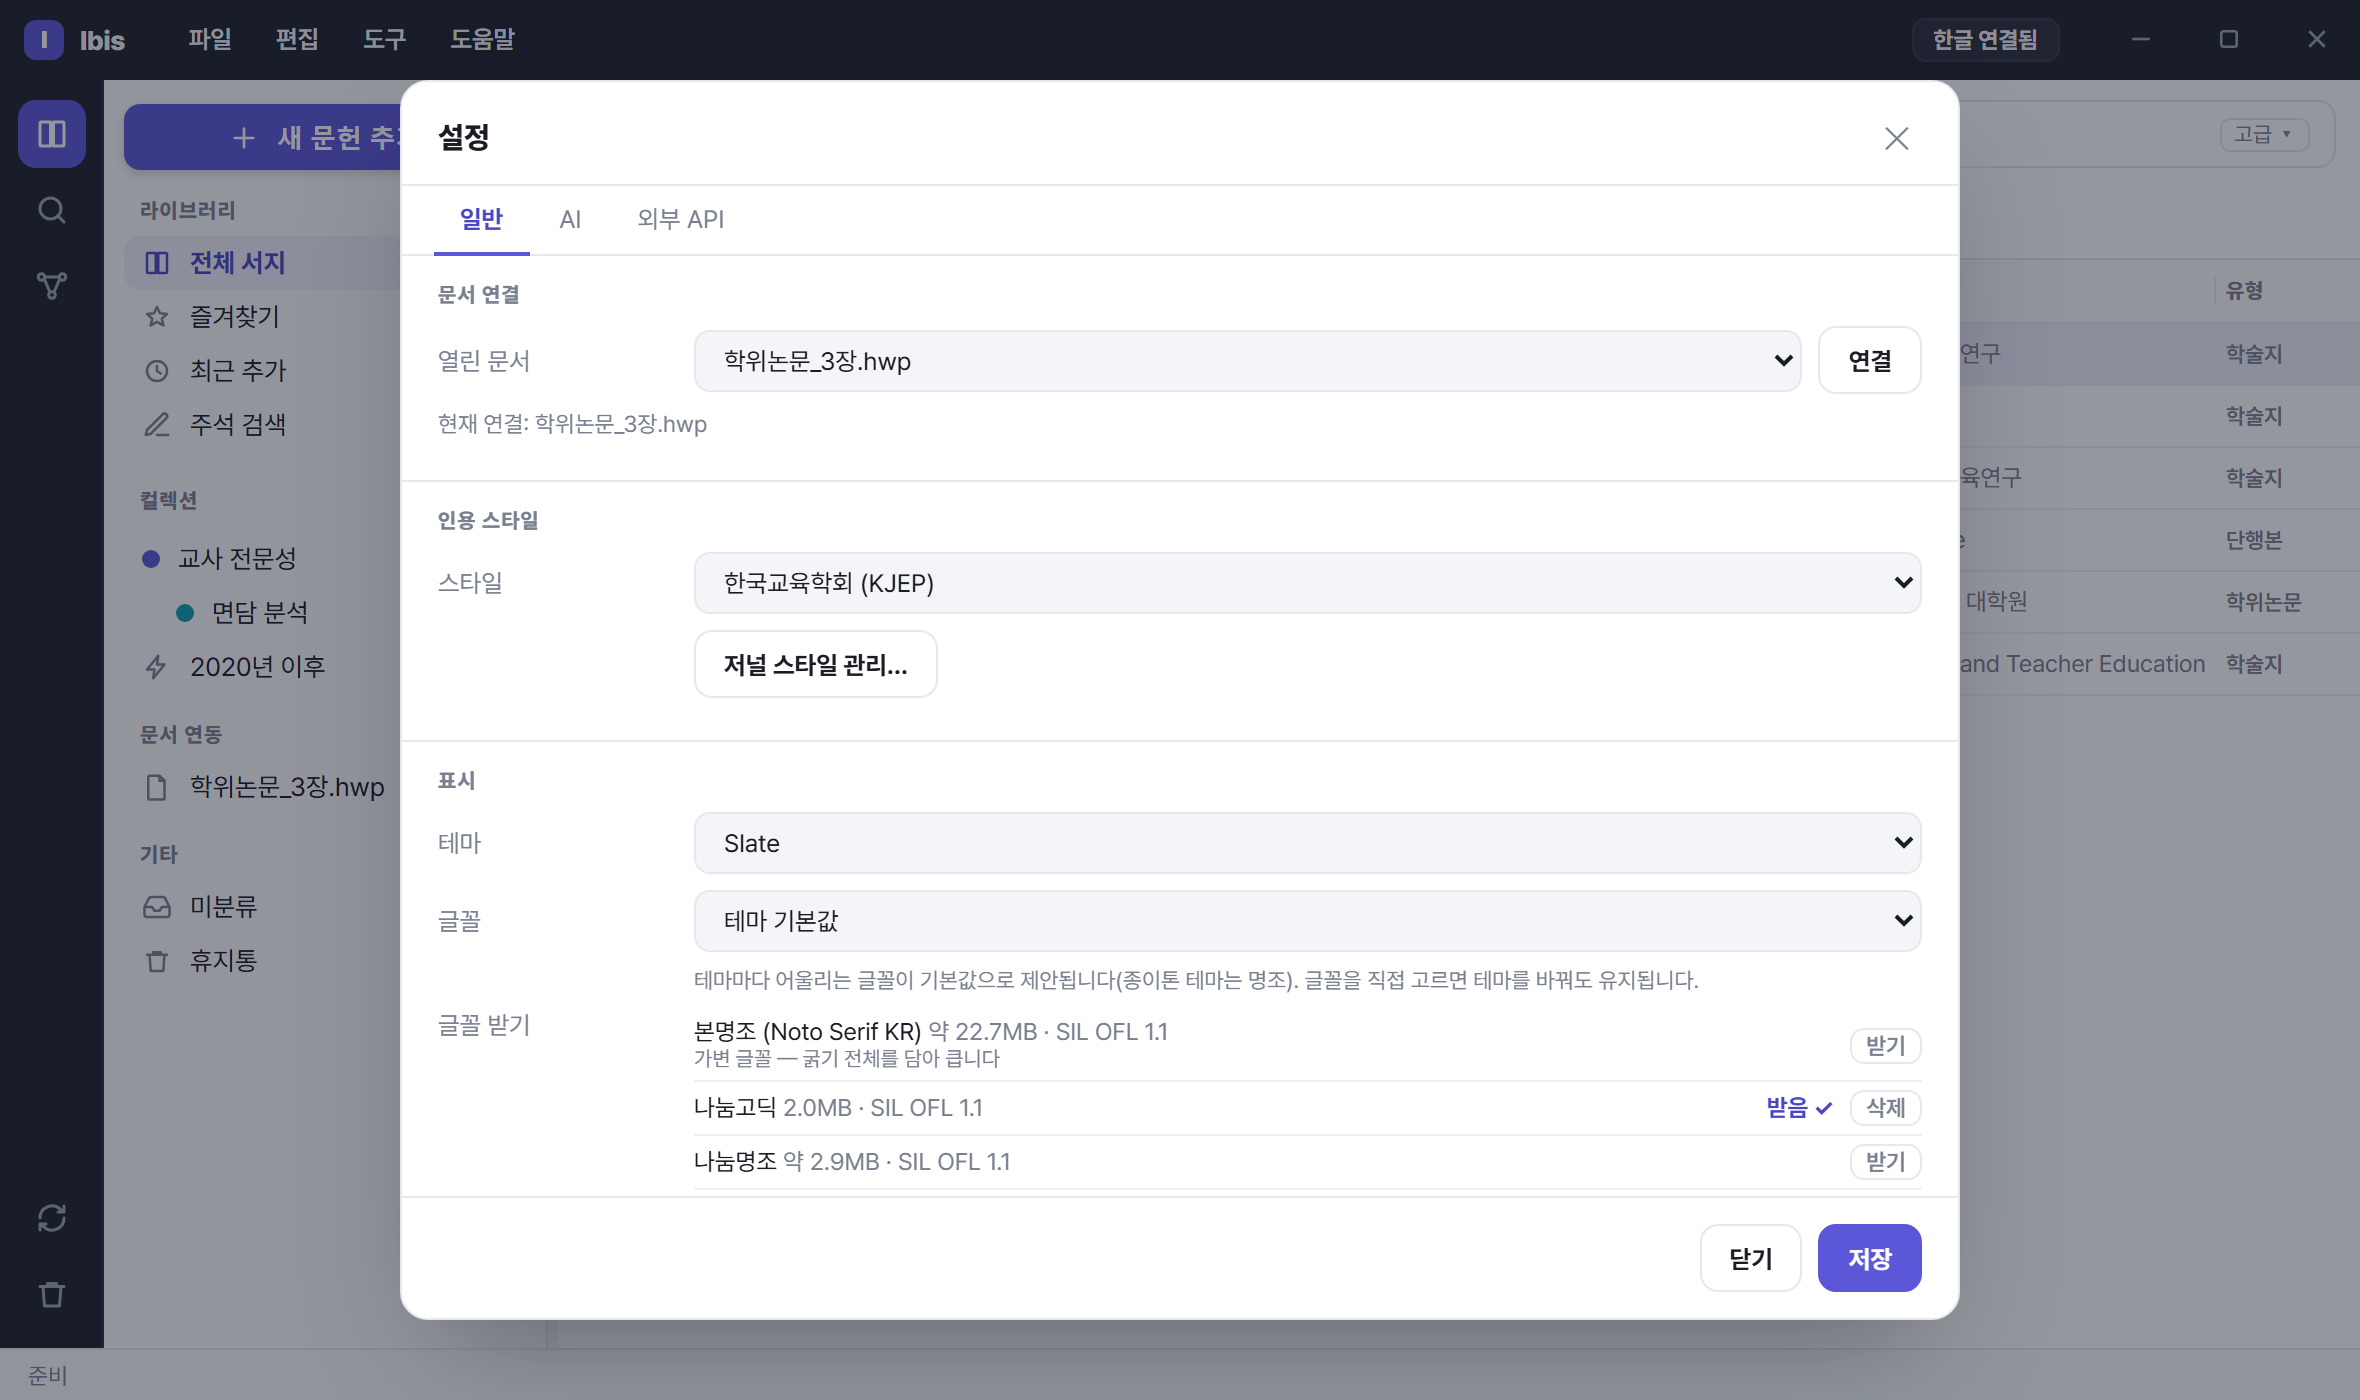
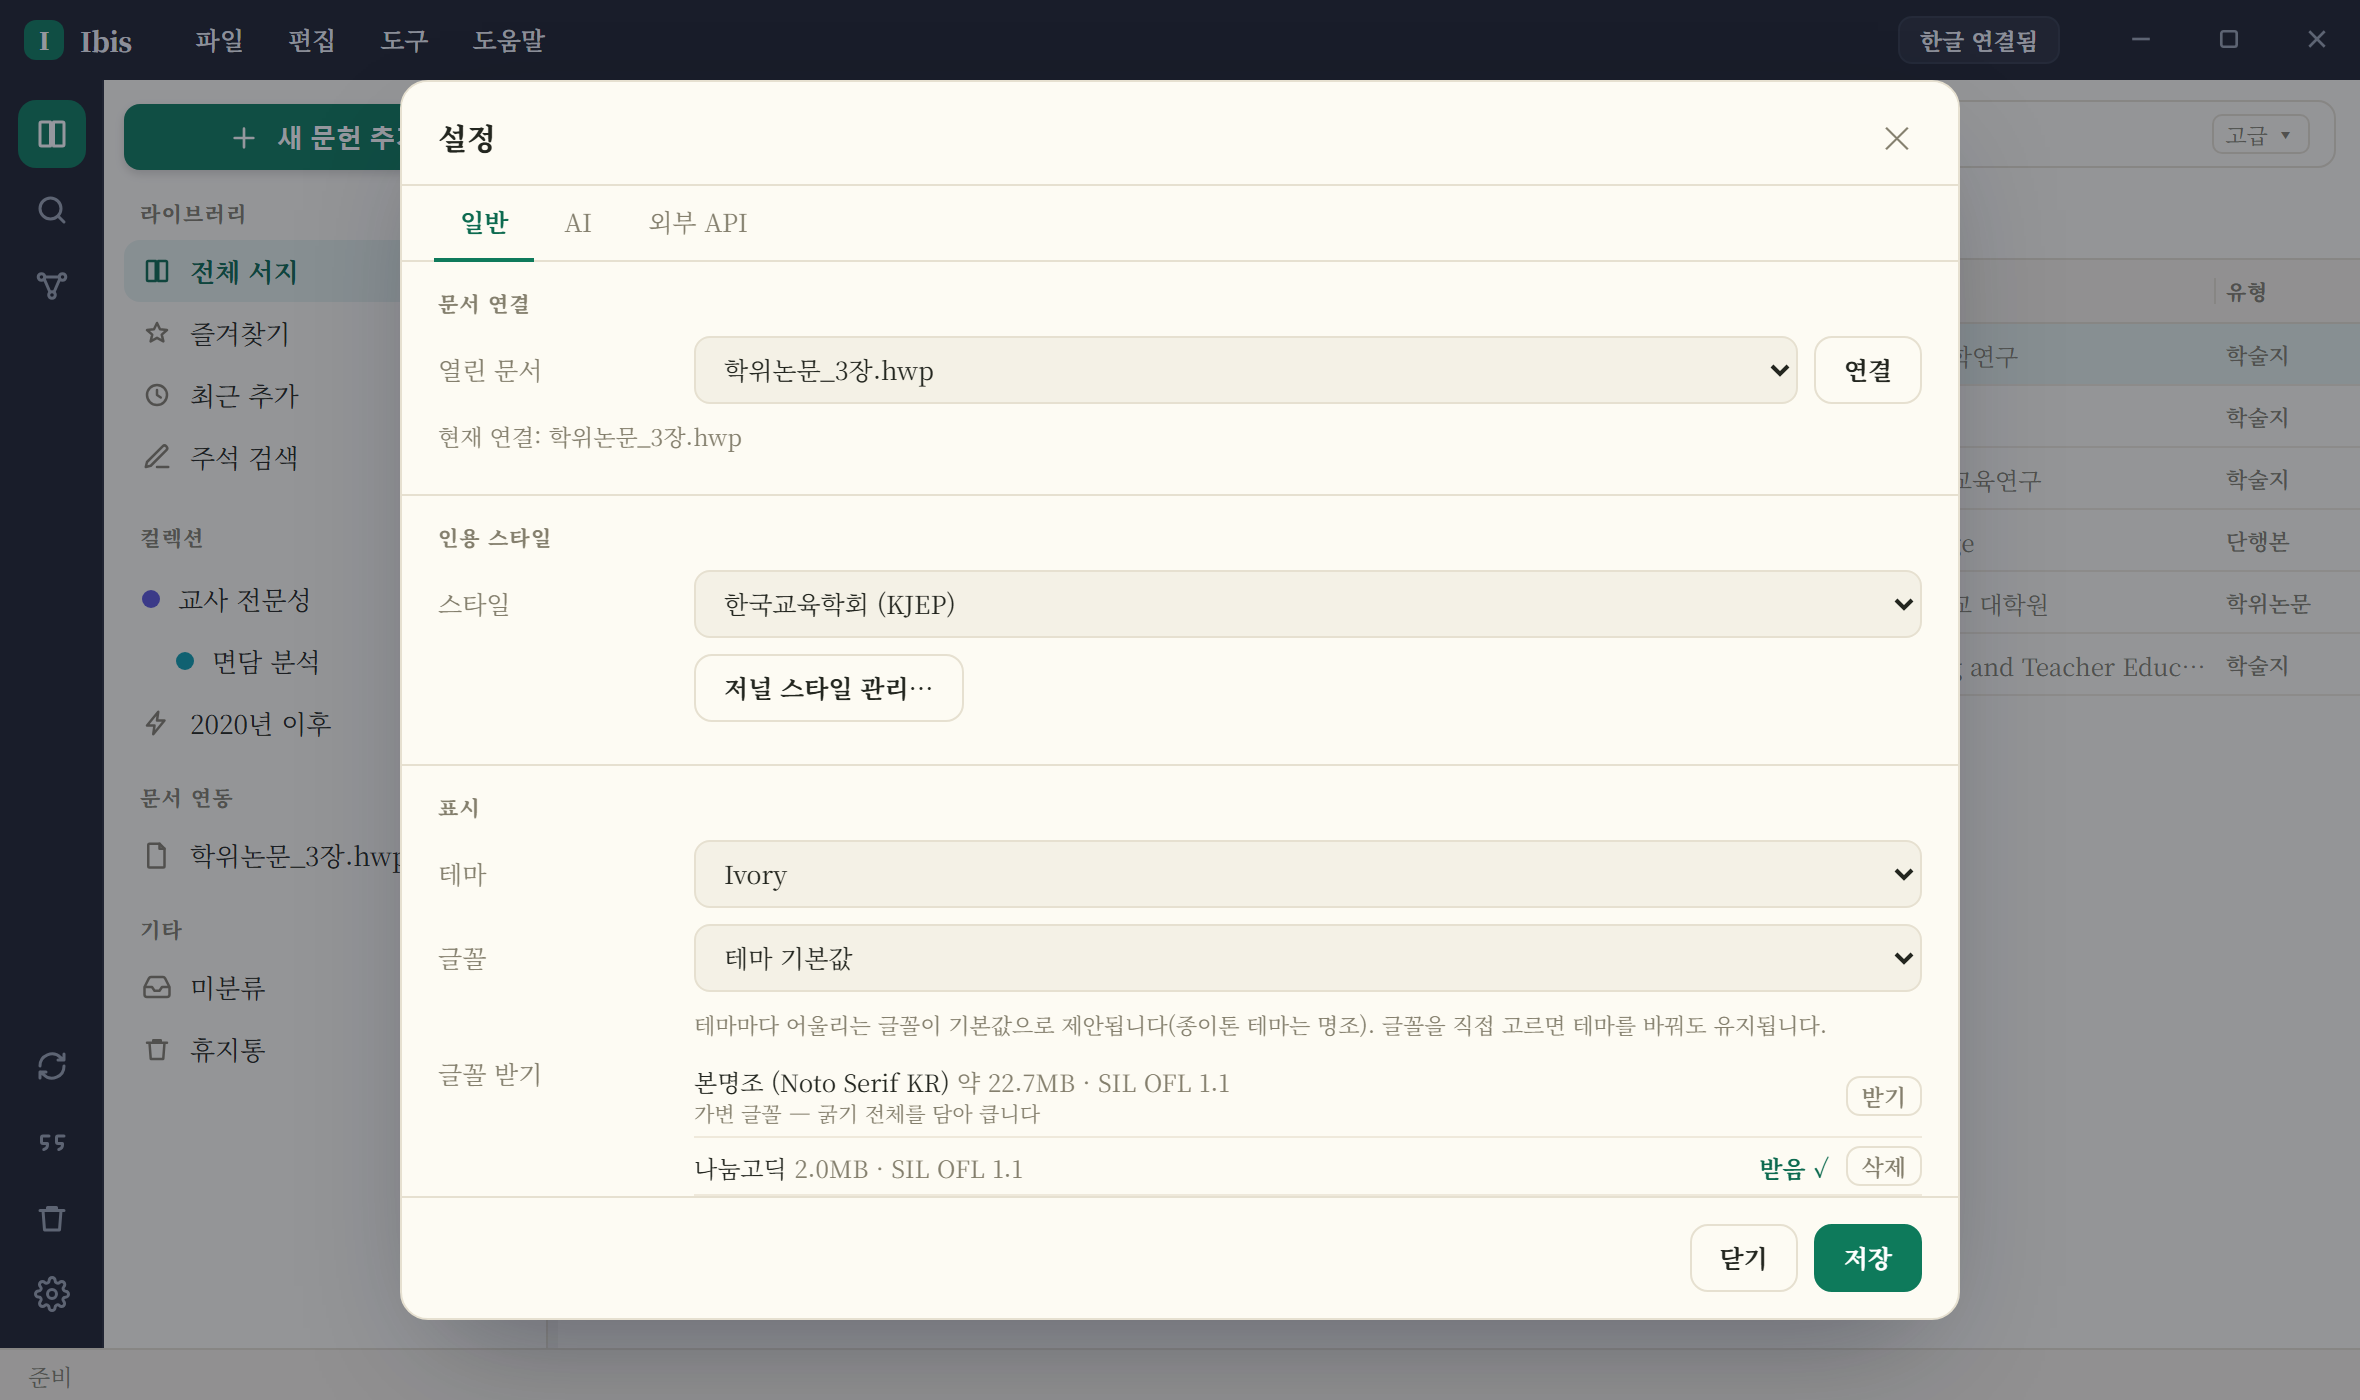
docs: 2026.8.2 반영 — 참고문헌 컨테이너 이행·인용 편집 창·인용 형태 5종
릴리스에 나간 기능이 공개 문서에 하나도 없었다. 특히 참고문헌 재설계는 기존
문서가 한 번 이행되는 변경이라 사용자가 안내를 만나기 전에 문서에 설명이 있어야
한다 — 이행 안내가 떴을 때·이행이 거부됐을 때 무엇을 하면 되는지를 FAQ 에 넣었다.

- USAGE: 4.2 인용 편집 창 · 4.6 직접 고친 인용 보호 · 5.3 참고문헌 컨테이너 신설,
  인용 형태를 5종 표로, 소절 번호 재정렬, 기준 버전 2026.8.2
- FAQ: 이행 안내/거부·손으로 고친 인용·인용 편집 창·서지에만 표시 5문항 추가.
  옛 답변(형태 3종·서술형은 단일 문헌만)을 현행으로 수정
- README: 인용 기능 갱신, 베타 안내에 이행 고지
- 캡처 13종을 기본 테마 Ivory 로 재생성(문서와 새 설치 화면이 어긋나지 않게)
- 테마 기본값이 Ivory 임을 USAGE·FAQ 양쪽에 명시(기존 사용자는 유지)

diff --git a/docs/FAQ.md b/docs/FAQ.md
@@ -1,6 +1,6 @@
 # Ibis FAQ
 
-한국 연구자를 위한 서지·인용 관리 앱 **Ibis** 자주 묻는 질문. 기준 버전 **2026.8.1**.
+한국 연구자를 위한 서지·인용 관리 앱 **Ibis** 자주 묻는 질문. 기준 버전 **2026.8.2**.
 
 - **국내 학술 검색 → 원문 확보 → AI 분석 → 태그 그래프**까지 한 프로그램에서 끝냅니다.
 - 한글(HWP)·Word 본문 인용 삽입(CWYW)도 그중 한 기능입니다.
@@ -120,8 +120,10 @@
 
 **Q. 인용 형태와 쪽수는 어디서?**
 
-- 문헌 선택 → 우측 상세 패널의 형태 드롭다운(괄호형 / 서술형 / 연도만) + '쪽' 칸 → [인용 삽입].
-- 서술형은 **단일 문헌일 때만** 적용(여러 건이면 괄호형으로 표시).
+- 문헌 선택 → 우측 상세 패널의 형태 드롭다운 + '쪽' 칸 → [인용 삽입].
+- **형태 5종**: 괄호형 `(홍길동, 2024)` · 서술형 `홍길동(2024)` · 연도만 `(2024)` · **서지에만 표시**(본문에 안 보이고 참고문헌에만) · **표기 생략 — 쪽만** `(23)`.
+- **서술형은 복수 문헌도 됩니다** — `Apple (2013), Aranda (2021)`. 다만 **'연도만' 은 복수 문헌에 쓸 수 없습니다**(어느 문헌의 연도인지 알 수 없어 차단됩니다).
+- 삽입한 뒤에도 **인용 편집 창**에서 형태·쪽을 바꿀 수 있습니다.
 
 **Q. 인용 여러 개를 한 괄호로 묶으려면?**
 
@@ -158,6 +160,37 @@
 - 사이드바 '문서 연동' 의 문서 우클릭 › '인용 스타일' 에서 지정.
 - 미연결 상태에서 바꾸면 앱 전체 기본만 변경.
 
+**Q. 문서를 여니 '참고문헌을 새 방식으로 옮깁니다' 라는 안내가 떠요. (2026.8.2)**
+
+- 정상입니다. 참고문헌이 **테두리 없는 한 칸짜리 표** 안으로 들어가는 구조 변경이고, **문서마다 한 번만** 일어납니다.
+- 겉모양은 달라지지 않습니다 — 화면·인쇄 모두 예전과 같은 문단으로 보이고 여러 쪽에 걸쳐 이어집니다.
+- **옮기기 전에 `.hwp` 파일 백업을 만듭니다.** 그래서 문서가 **저장돼 있어야** 이행됩니다 — 안내가 뜨면 먼저 저장하세요.
+- 왜 바꿨나: 종전 방식(표시로 구간을 잡아 지우고 다시 쓰기)은 **원고 본문까지 지울 수 있는 경로**가 있었고 실제로 사고가 났습니다. 이제 경계를 한글이 지키므로 그 경로 자체가 없습니다.
+
+**Q. '참고문헌 구간을 확인할 수 없습니다' 라며 이행하지 않아요.**
+
+- 그 구간이 앱이 쓴 그대로가 아니라는 뜻입니다(손으로 고쳤거나 다른 편집이 섞인 경우).
+- **아무것도 지우지 않습니다.** 안내에 나온 대로 참고문헌 **글자만** 지우고 갱신하시면, 남은 표시는 앱이 정리하고 새 방식으로 다시 만듭니다.
+- 지우기 전에 문서 사본을 하나 두시면 마음이 편합니다.
+
+**Q. 인용을 손으로 고쳤는데 갱신하면 날아가나요? (2026.8.2)**
+
+- 아닙니다 — 갱신 전에 **묻습니다**. '유지'(손으로 쓴 표기를 지키고 이후 갱신에서 제외) 또는 '정식 표기로 되돌리기' 중에 고릅니다.
+- 제외해 둔 인용은 **인용 편집 창의 [적용]** 으로 언제든 다시 갱신 대상으로 되돌립니다.
+- 종전에는 경고 없이 덮어써졌습니다.
+
+**Q. 인용이 문서 어디에 있는지 찾기 어려워요. (2026.8.2)**
+
+- 레일의 **인용 아이콘(❝)** 으로 **인용 편집 창**을 엽니다 — 문서의 인용이 **나오는 순서대로** 전부 보입니다.
+- **행을 클릭하면 한글이 그 자리로 이동**합니다. ✎(더블클릭·우클릭)로 표기 방식·쪽·병렬 구성 문헌을 그 자리에서 고칩니다.
+- '갱신하면 표기가 달라질 인용'에는 배지가 붙어, 무엇이 바뀔지 미리 보고 갱신할 수 있습니다.
+
+**Q. 본문에는 안 나오고 참고문헌에만 올리고 싶어요. (2026.8.2)**
+
+- 인용 형태에서 **'서지에만 표시'** 를 고릅니다.
+- 같은 문헌을 이어 인용하며 쪽만 바꿀 때는 **'표기 생략 — 쪽만'**(`(23)`)을 씁니다.
+- 이로써 괄호형·서술형·연도만과 함께 **형태 5종**이 됩니다.
+
 **Q. 문서에서 인용을 지웠는데 참고문헌에 남아요.**
 
 - 문서를 다시 연결하거나 `참고문헌 갱신` 실행 → 실제 문서 필드와 대조해 자동 정리.
@@ -166,6 +199,7 @@
 
 - 기본값이 **제목 없음**입니다.
 - 참고문헌은 항상 새 페이지에서 시작하며, 제목은 저널 스타일의 `bib_heading` 을 지정할 때만.
+- 목록은 테두리 없는 표 안에 들어가지만 겉모양은 일반 문단과 같습니다(위 이행 안내 참고).
 - 각 항목은 APA 0.5in 내어쓰기 + 스타일별 강조(이탤릭/볼드/밑줄).
 
 ---
@@ -548,6 +582,7 @@
 **Q. 테마는 몇 가지인가요?**
 
 - **16종** — 자체 제작 4종(Slate·Ivory·Bright·Graphite) + 다크 8종(Dark Modern·One Dark Pro·Dracula·Nord·Monokai·Tokyo Night·Solarized Dark·GitHub Dark) + 라이트 4종(Solarized Light·GitHub Light·Quiet Light·Ayu Light).
+- 기본값은 **Ivory**(종이톤·명조) 입니다 — 2026.8.2 부터. **그전부터 쓰시던 분의 테마는 그대로 유지**되고, 새로 설치했거나 테마를 한 번도 바꾸지 않은 경우에만 적용됩니다.
 - ⚙설정 › 일반 › 표시 › 테마에서 선택 — 즉시 적용, 저장되어 재시작 후에도 유지.
 - 자체 제작 4종은 타이틀바·레일이 다크 고정, 나머지는 **크롬까지 테마 색**을 따릅니다.
 

diff --git a/README.md b/README.md
@@ -64,8 +64,13 @@ KCI·국립중앙도서관 검색, 도서관 교외접속 경유 원문 확보, 
 
 **인용·참고문헌**
 - 한글 누름틀/Word 콘텐츠 컨트롤 기반 인용 — 문서를 다시 열어도, 파일명을 바꿔도, 다른 PC로 옮겨도 안전
-- 괄호형 `(저자, 연도)` · 서술형 `저자(연도)` · 연도만 · 쪽수 지정 · 병렬 인용(자동 병합)
-- 참고문헌 자동 생성: 새 페이지 분리, 내어쓰기, 국문·영문 혼합 정렬, 학회별 스타일
+- **인용 형태 5종** — 괄호형 `(저자, 연도)` · 서술형 `저자(연도)`(복수 문헌도 지원) · 연도만 · **서지에만 표시** · **표기 생략(쪽만)** + 쪽수 지정 · 병렬 인용(자동 병합)
+- **인용 편집 창** — 문서의 인용을 **나오는 순서대로** 모아 보고, **행을 클릭하면 한글이 그 자리로 이동**합니다.
+  표기 방식·쪽·병렬 구성 문헌을 그 자리에서 고치고, 갱신하면 표기가 달라질 인용에는 배지가 붙습니다
+- **직접 고친 인용은 덮어쓰기 전에 묻습니다** — '유지'(이후 갱신에서 제외) / '정식 표기로 되돌리기'
+- 참고문헌 자동 생성: 새 페이지 분리, 내어쓰기, 국문·영문 혼합 정렬, 학회별 스타일.
+  목록은 **테두리 없는 표** 안에 살아 갱신이 원고를 건드릴 수 없습니다(겉모양은 일반 문단과 같음 —
+  기존 문서는 백업을 만든 뒤 **한 번만** 자동 이행)
 - **언어×유형 인용 서식** — 유형(학술지·단행본·학위논문·법령 등)×언어(국/영)별로 제목·수록처 강조를 없음/기울임/볼드/밑줄로 지정(국문 단행본 밑줄 등 국내 관례), 언어별 따옴표까지
 - **문서별 스타일** — 문서마다 스타일을 독립 저장하고, 바꾸면 본문 인용·참고문헌을 즉시 재렌더
 
@@ -107,6 +112,8 @@ KCI·국립중앙도서관 검색, 도서관 교외접속 경유 원문 확보, 
 ## 베타 안내
 
 - 베타 기간에는 데이터 구조가 바뀔 수 있습니다. 중요한 문서는 백업 후 사용을 권합니다.
+- **2026.8.2 로 올리면 기존 문서의 참고문헌이 한 번 이행됩니다** — 문서를 열 때 안내가 뜨고,
+  `.hwp` 백업을 만든 뒤 옮깁니다(문서가 저장돼 있어야 합니다). 겉모양은 달라지지 않습니다 → [FAQ](docs/FAQ.md)
 - 알려진 사항: SmartScreen 경고(위 참고), 한글 연동 시 보안 모듈 팝업·누름틀 팝업 가능 → [FAQ](docs/FAQ.md)
 - 피드백 환영: [Issues](../../issues)에 재현 방법과 함께 남겨주시면 빠르게 반영합니다.
 
